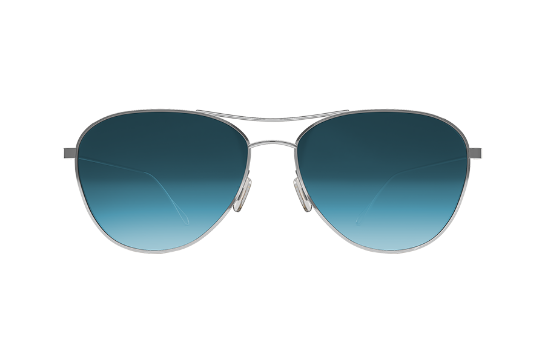
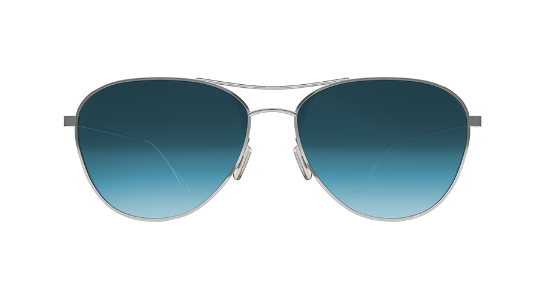
chore(page): refactoring

Changed region(s): [[0.0936, 0.2441, 0.9046, 0.4576], [0.1248, 0.4881, 0.4679, 0.7627], [0.5303, 0.4881, 0.8734, 0.7627]]

diff --git a/components/sections/SunglassesSection.vue b/components/sections/SunglassesSection.vue
@@ -50,7 +50,7 @@ export default {
         autoPlay: 4000
       },
       sliderImages: [
-        require('~/assets/images/sunglass-blue-2.png'),
+        require('~/assets/images/sunglass-blue.png'),
         require('~/assets/images/sunglass-violet.png'),
         require('~/assets/images/sunglass-pink.png'),
         require('~/assets/images/sunglass-blue-light.png'),
